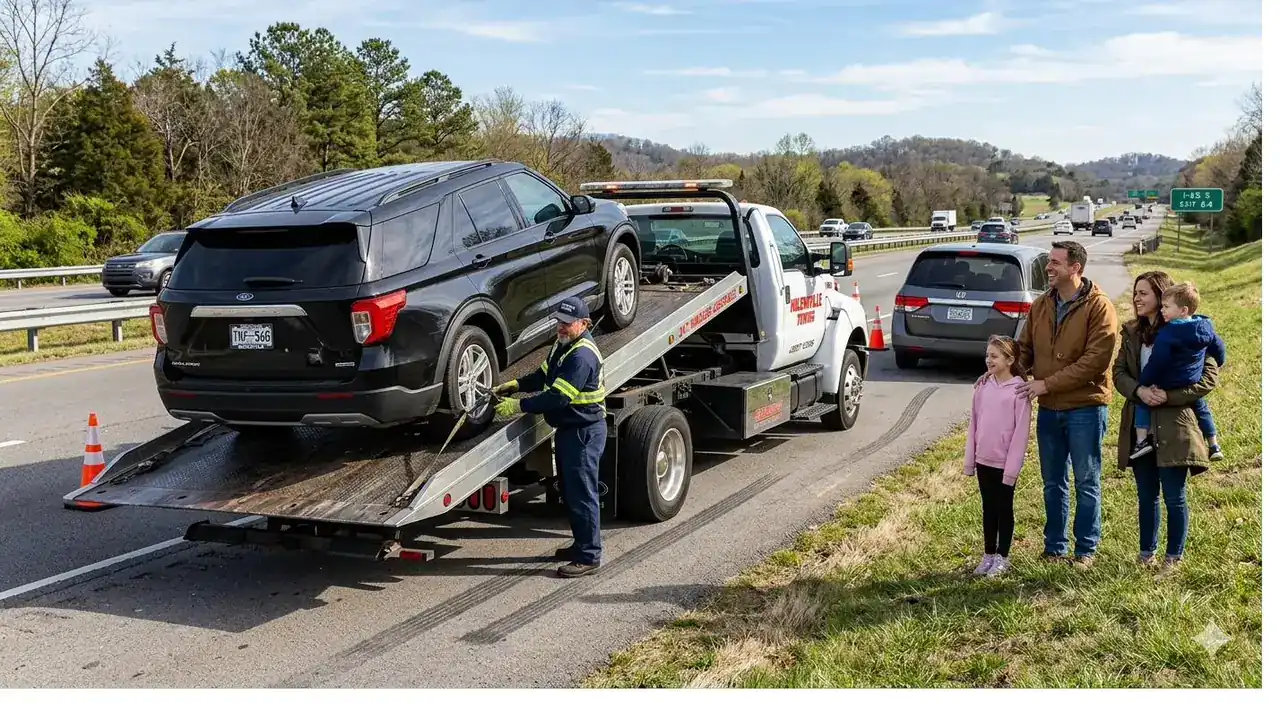
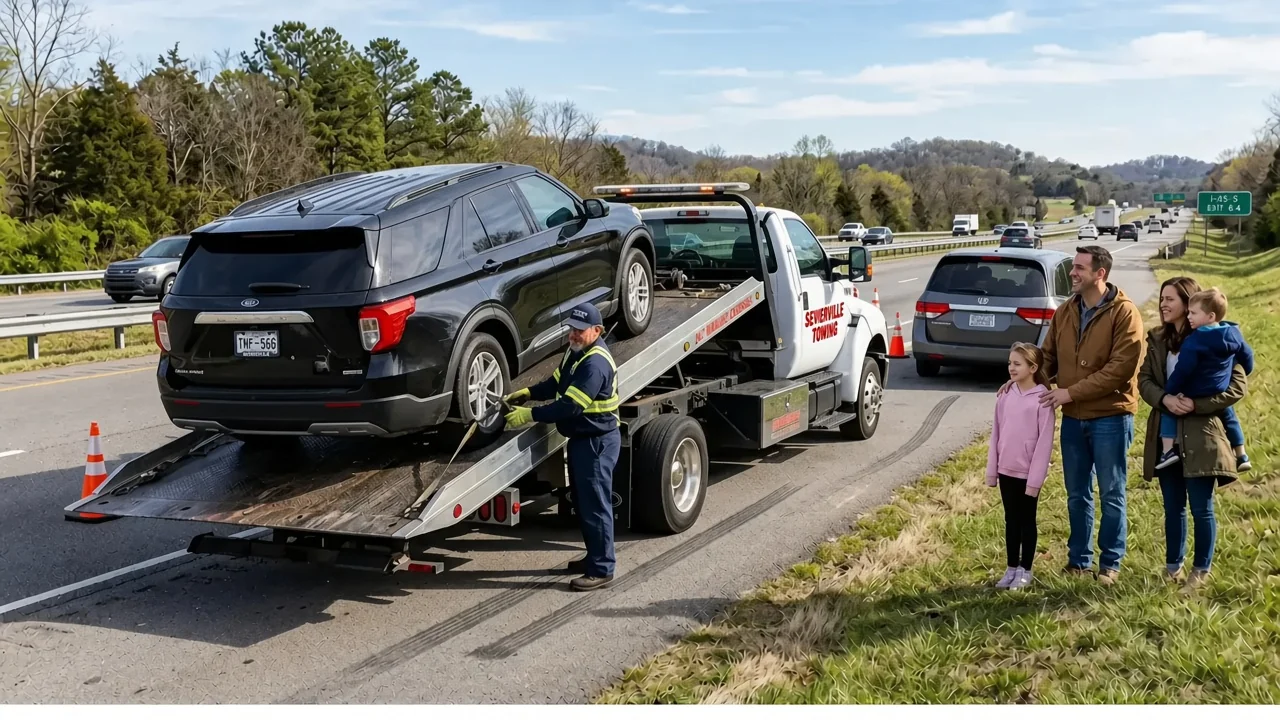
Replace homepage hero with Sevierville Towing door lettering (#8)
Overwrite assets/index.webp with the quieter vinyl lettering so the truck door reads SEVIERVILLE TOWING, and match the image height hint on pages that use that hero.

diff --git a/service-areas/dandridge.html b/service-areas/dandridge.html
@@ -496,7 +496,7 @@
 <div class="mobile-call-bar"><a href="tel:+18652779406">Tap to Call (865) 277-9406</a></div>
 <main id="main">
   <section class="hero" id="top">
-    <img class="hero-media" src="/assets/index.webp" alt="" width="1280" height="703" fetchpriority="high" decoding="async">
+    <img class="hero-media" src="/assets/index.webp" alt="" width="1280" height="720" fetchpriority="high" decoding="async">
     <div class="hero-inner">
       <p class="eyebrow">Dandridge edge &bull; Jefferson County, TN &bull; 24/7</p>
       <h1>Towing on the Dandridge Edge</h1>

diff --git a/index.html b/index.html
@@ -496,7 +496,7 @@
 <div class="mobile-call-bar"><a href="tel:+18652779406">Tap to Call (865) 277-9406</a></div>
 <main id="main">
   <section class="hero" id="top">
-    <img class="hero-media" src="/assets/index.webp" alt="" width="1280" height="703" fetchpriority="high" decoding="async">
+    <img class="hero-media" src="/assets/index.webp" alt="" width="1280" height="720" fetchpriority="high" decoding="async">
     <div class="hero-inner">
       <p class="eyebrow">Sevierville &bull; Sevier County &bull; 24/7</p>
       <h1>Sevierville Towing Services</h1>

diff --git a/contact-us.html b/contact-us.html
@@ -496,7 +496,7 @@
 <div class="mobile-call-bar"><a href="tel:+18652779406">Tap to Call (865) 277-9406</a></div>
 <main id="main">
   <section class="hero" id="top">
-    <img class="hero-media" src="/assets/index.webp" alt="" width="1280" height="703" fetchpriority="high" decoding="async">
+    <img class="hero-media" src="/assets/index.webp" alt="" width="1280" height="720" fetchpriority="high" decoding="async">
     <div class="hero-inner">
       <p class="eyebrow">Contact &bull; Sevierville, TN</p>
       <h1>Contact Sevierville Towing</h1>

diff --git a/about-us.html b/about-us.html
@@ -496,7 +496,7 @@
 <div class="mobile-call-bar"><a href="tel:+18652779406">Tap to Call (865) 277-9406</a></div>
 <main id="main">
   <section class="hero" id="top">
-    <img class="hero-media" src="/assets/index.webp" alt="" width="1280" height="703" fetchpriority="high" decoding="async">
+    <img class="hero-media" src="/assets/index.webp" alt="" width="1280" height="720" fetchpriority="high" decoding="async">
     <div class="hero-inner">
       <p class="eyebrow">About Us &bull; Sevierville, TN</p>
       <h1>About Sevierville Towing</h1>

diff --git a/faq.html b/faq.html
@@ -496,7 +496,7 @@
 <div class="mobile-call-bar"><a href="tel:+18652779406">Tap to Call (865) 277-9406</a></div>
 <main id="main">
   <section class="hero" id="top">
-    <img class="hero-media" src="/assets/index.webp" alt="" width="1280" height="703" fetchpriority="high" decoding="async">
+    <img class="hero-media" src="/assets/index.webp" alt="" width="1280" height="720" fetchpriority="high" decoding="async">
     <div class="hero-inner">
       <p class="eyebrow">FAQ &bull; Sevierville, TN</p>
       <h1>Towing Questions, Answered</h1>

diff --git a/service-areas/index.html b/service-areas/index.html
@@ -496,7 +496,7 @@
 <div class="mobile-call-bar"><a href="tel:+18652779406">Tap to Call (865) 277-9406</a></div>
 <main id="main">
   <section class="hero" id="top">
-    <img class="hero-media" src="/assets/index.webp" alt="" width="1280" height="703" fetchpriority="high" decoding="async">
+    <img class="hero-media" src="/assets/index.webp" alt="" width="1280" height="720" fetchpriority="high" decoding="async">
     <div class="hero-inner">
       <p class="eyebrow">Service Areas &bull; Sevier County, TN</p>
       <h1>Where We Serve</h1>

diff --git a/service-areas/seymour.html b/service-areas/seymour.html
@@ -496,7 +496,7 @@
 <div class="mobile-call-bar"><a href="tel:+18652779406">Tap to Call (865) 277-9406</a></div>
 <main id="main">
   <section class="hero" id="top">
-    <img class="hero-media" src="/assets/index.webp" alt="" width="1280" height="703" fetchpriority="high" decoding="async">
+    <img class="hero-media" src="/assets/index.webp" alt="" width="1280" height="720" fetchpriority="high" decoding="async">
     <div class="hero-inner">
       <p class="eyebrow">Serving Seymour, TN &bull; 24/7</p>
       <h1>Towing in Seymour, TN</h1>

diff --git a/privacy-policy.html b/privacy-policy.html
@@ -496,7 +496,7 @@
 <div class="mobile-call-bar"><a href="tel:+18652779406">Tap to Call (865) 277-9406</a></div>
 <main id="main">
   <section class="hero" id="top">
-    <img class="hero-media" src="/assets/index.webp" alt="" width="1280" height="703" fetchpriority="high" decoding="async">
+    <img class="hero-media" src="/assets/index.webp" alt="" width="1280" height="720" fetchpriority="high" decoding="async">
     <div class="hero-inner">
       <p class="eyebrow">Privacy</p>
       <h1>Privacy Policy</h1>

diff --git a/404.html b/404.html
@@ -496,7 +496,7 @@
 <div class="mobile-call-bar"><a href="tel:+18652779406">Tap to Call (865) 277-9406</a></div>
 <main id="main">
   <section class="hero" id="top">
-    <img class="hero-media" src="/assets/index.webp" alt="" width="1280" height="703" fetchpriority="high" decoding="async">
+    <img class="hero-media" src="/assets/index.webp" alt="" width="1280" height="720" fetchpriority="high" decoding="async">
     <div class="hero-inner">
       <p class="eyebrow">404</p>
       <h1>Page Not Found</h1>
